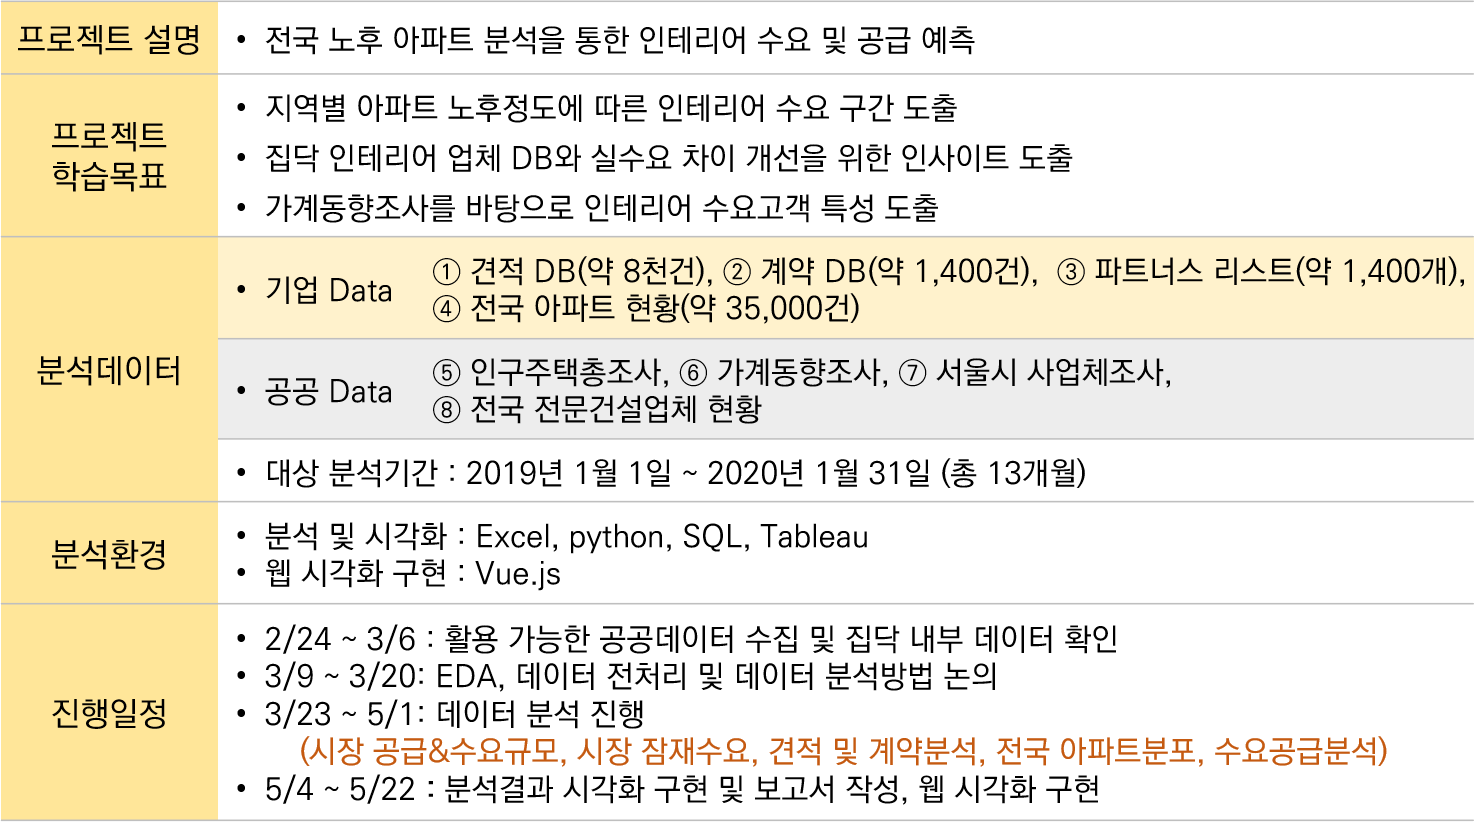
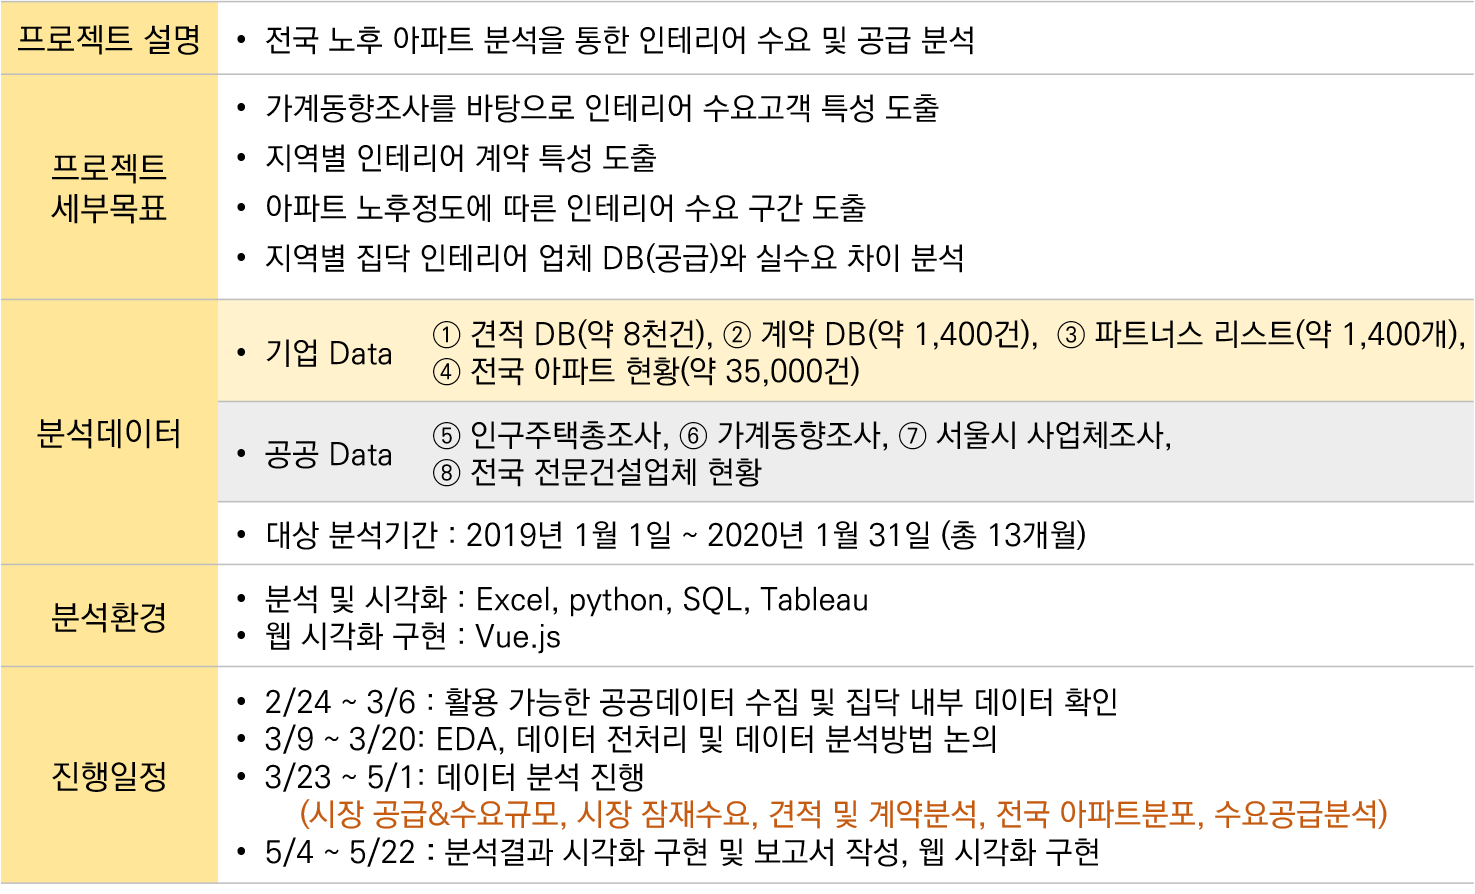
final commit

Changed region(s): [[0.0, 0.0301, 1.0, 0.9928], [0.0312, 0.1504, 0.1247, 0.2708], [0.0312, 0.8424, 0.1247, 0.9025]]

diff --git a/CoreUI-Vue/src/containers/_nav.js b/CoreUI-Vue/src/containers/_nav.js
@@ -14,14 +14,14 @@ export default [
       },
       {
         _name: 'CSidebarNavItem',
-        name: '지역',
-        to: '/insight/region',
+        name: '소비자',
+        to: '/insight/consumer',
         icon: 'cil-lightbulb'
       },
       {
         _name: 'CSidebarNavItem',
-        name: '소비자',
-        to: '/insight/consumer',
+        name: '지역',
+        to: '/insight/region',
         icon: 'cil-lightbulb'
       },
       {

diff --git a/CoreUI-Vue/src/views/insight/Consumer.vue b/CoreUI-Vue/src/views/insight/Consumer.vue
@@ -1,6 +1,6 @@
 <template>
   <div>
-    <img src="https://user-images.githubusercontent.com/58713684/82768850-797b4600-9e6c-11ea-92da-e0e9e4d10a7d.png" width="1125px" height="800px">
+    <img src="https://user-images.githubusercontent.com/58713684/83836808-95fe6480-a72f-11ea-97fb-7fb3d4711982.png" width="1125px" height="800px">
   </div>
 </template>
 

diff --git a/CoreUI-Vue/src/views/insight/Region.vue b/CoreUI-Vue/src/views/insight/Region.vue
@@ -1,6 +1,6 @@
 <template>
   <div>
-    <img src="https://user-images.githubusercontent.com/58713684/82768614-176e1100-9e6b-11ea-9c3a-b65876fd0742.png" width="1125px" height="800px">
+    <img src="https://user-images.githubusercontent.com/58713684/83836834-aa426180-a72f-11ea-82bc-86a09300c23f.png" width="1125px" height="800px">
   </div>
 </template>
 
